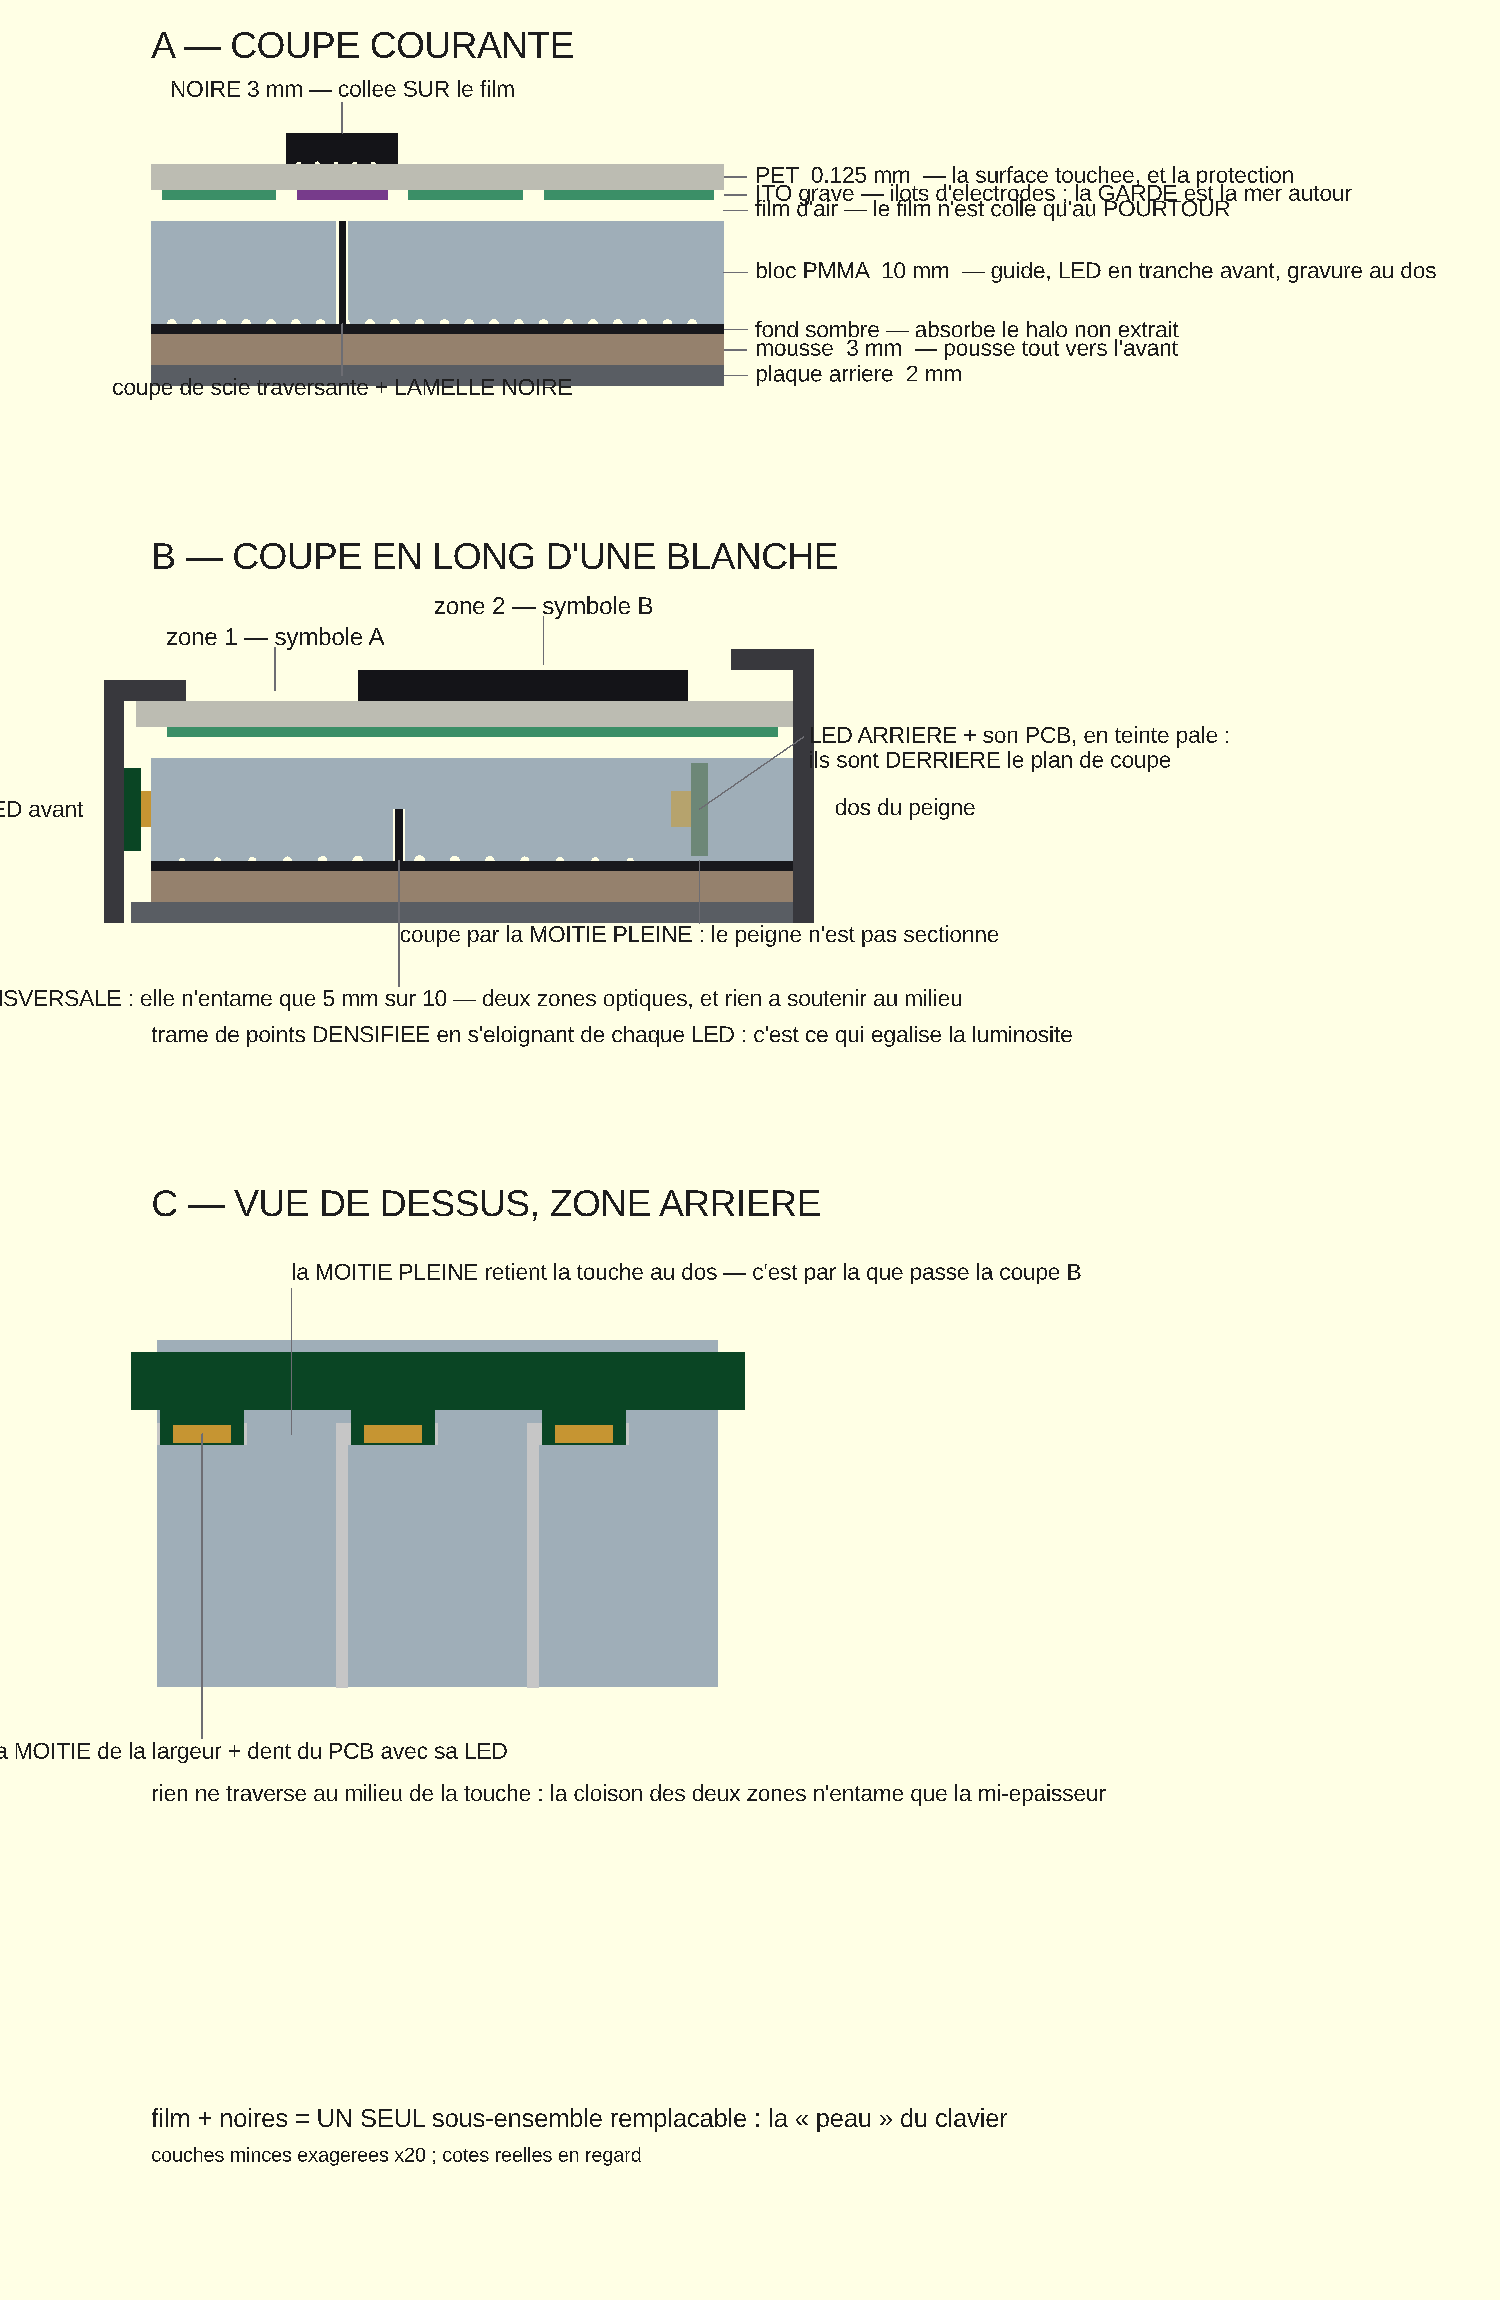
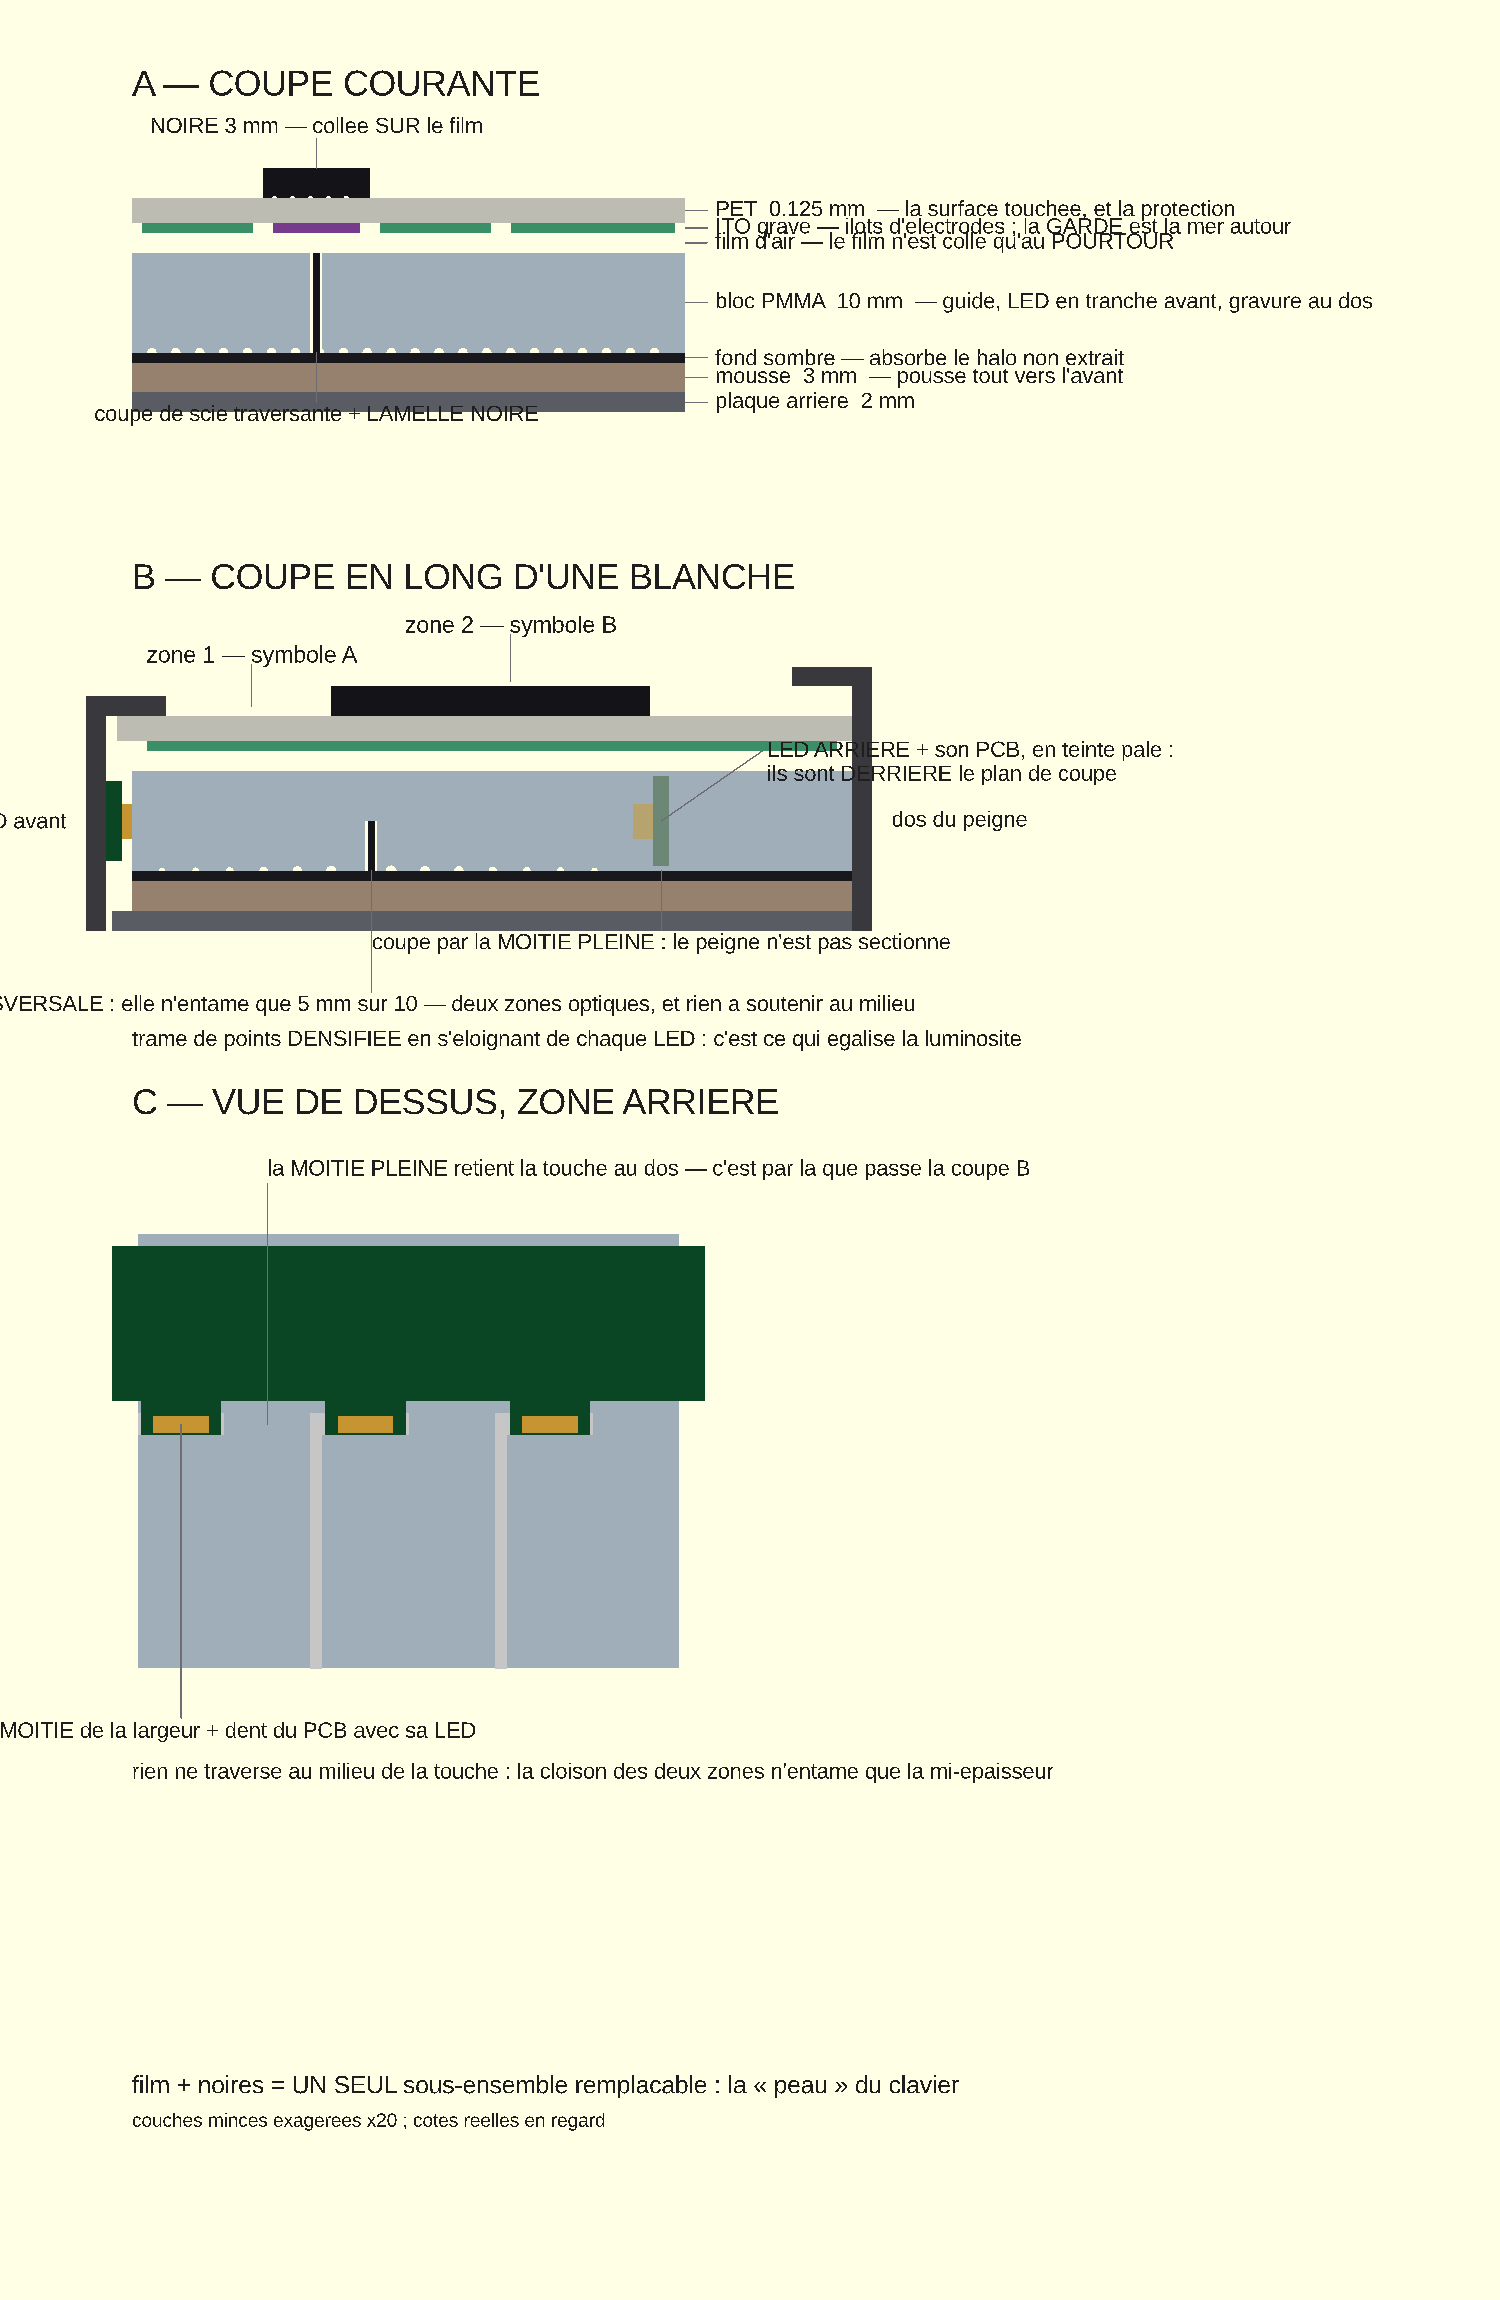
Méca : dos du peigne porté à 18 mm — c'est là que ça casserait
L'acrylique ne plie pas, il casse. Le dos tient les 16 touches ensemble et subit
l'usinage des 16 fentes, le débridage et toutes les manipulations : un dos mince
est fragile AVANT le montage, pas en service. 8 mm -> 18 mm (valeur estimée, à
confirmer sur la première pièce).

Coût : clavier de 66 à 76 mm de profondeur, façade complète de 232 à 242 mm — dix
millimètres entièrement en zone cachée sous le cache arrière, qui n'entament ni
la surface jouée ni la place de l'écran.

diff --git a/mechanical/README.md b/mechanical/README.md
@@ -281,7 +281,18 @@ touche : l'autre moitié reste pleine et retient la touche au dos.
 
 > ⚠ **La coupe B passe par la moitié PLEINE.** C'est indispensable : une coupe par
 > la moitié ouverte montrerait un peigne sectionné, ce qu'il n'est pas. La fente
-> arrière et la dent du PCB se voient dans la **vue C** uniquement.
+> arrière et la dent du PCB se voient dans la **vue C** ; dans la coupe B ils sont
+> figurés en **teinte pâle**, comme un détail caché.
+
+**Le dos du peigne fait 18 mm**, et pas moins. C'est lui qui tient les 16 touches
+ensemble, et c'est la pièce la plus exposée : l'acrylique ne plie pas, il casse.
+Un dos mince percé de 16 fentes est fragile **avant même d'être monté** — à
+l'usinage, au débridage, à la manipulation. C'est là que ça casserait, pas en
+service. Valeur **estimée**, à confirmer sur la première pièce.
+
+> Coût : clavier de 66 à **76 mm** de profondeur, façade complète de 232 à
+> **242 mm**. Ces 10 mm sont entièrement en **zone cachée** sous le cache arrière —
+> ils n'entament ni la surface jouée ni la place de l'écran.
 
 > **Point dur restant : le repérage.** Les traits de gravure de l'ITO doivent
 > tomber au-dessus des coupes de scie, à mieux de 0,5 mm sur 300 mm. Ce n'est pas
